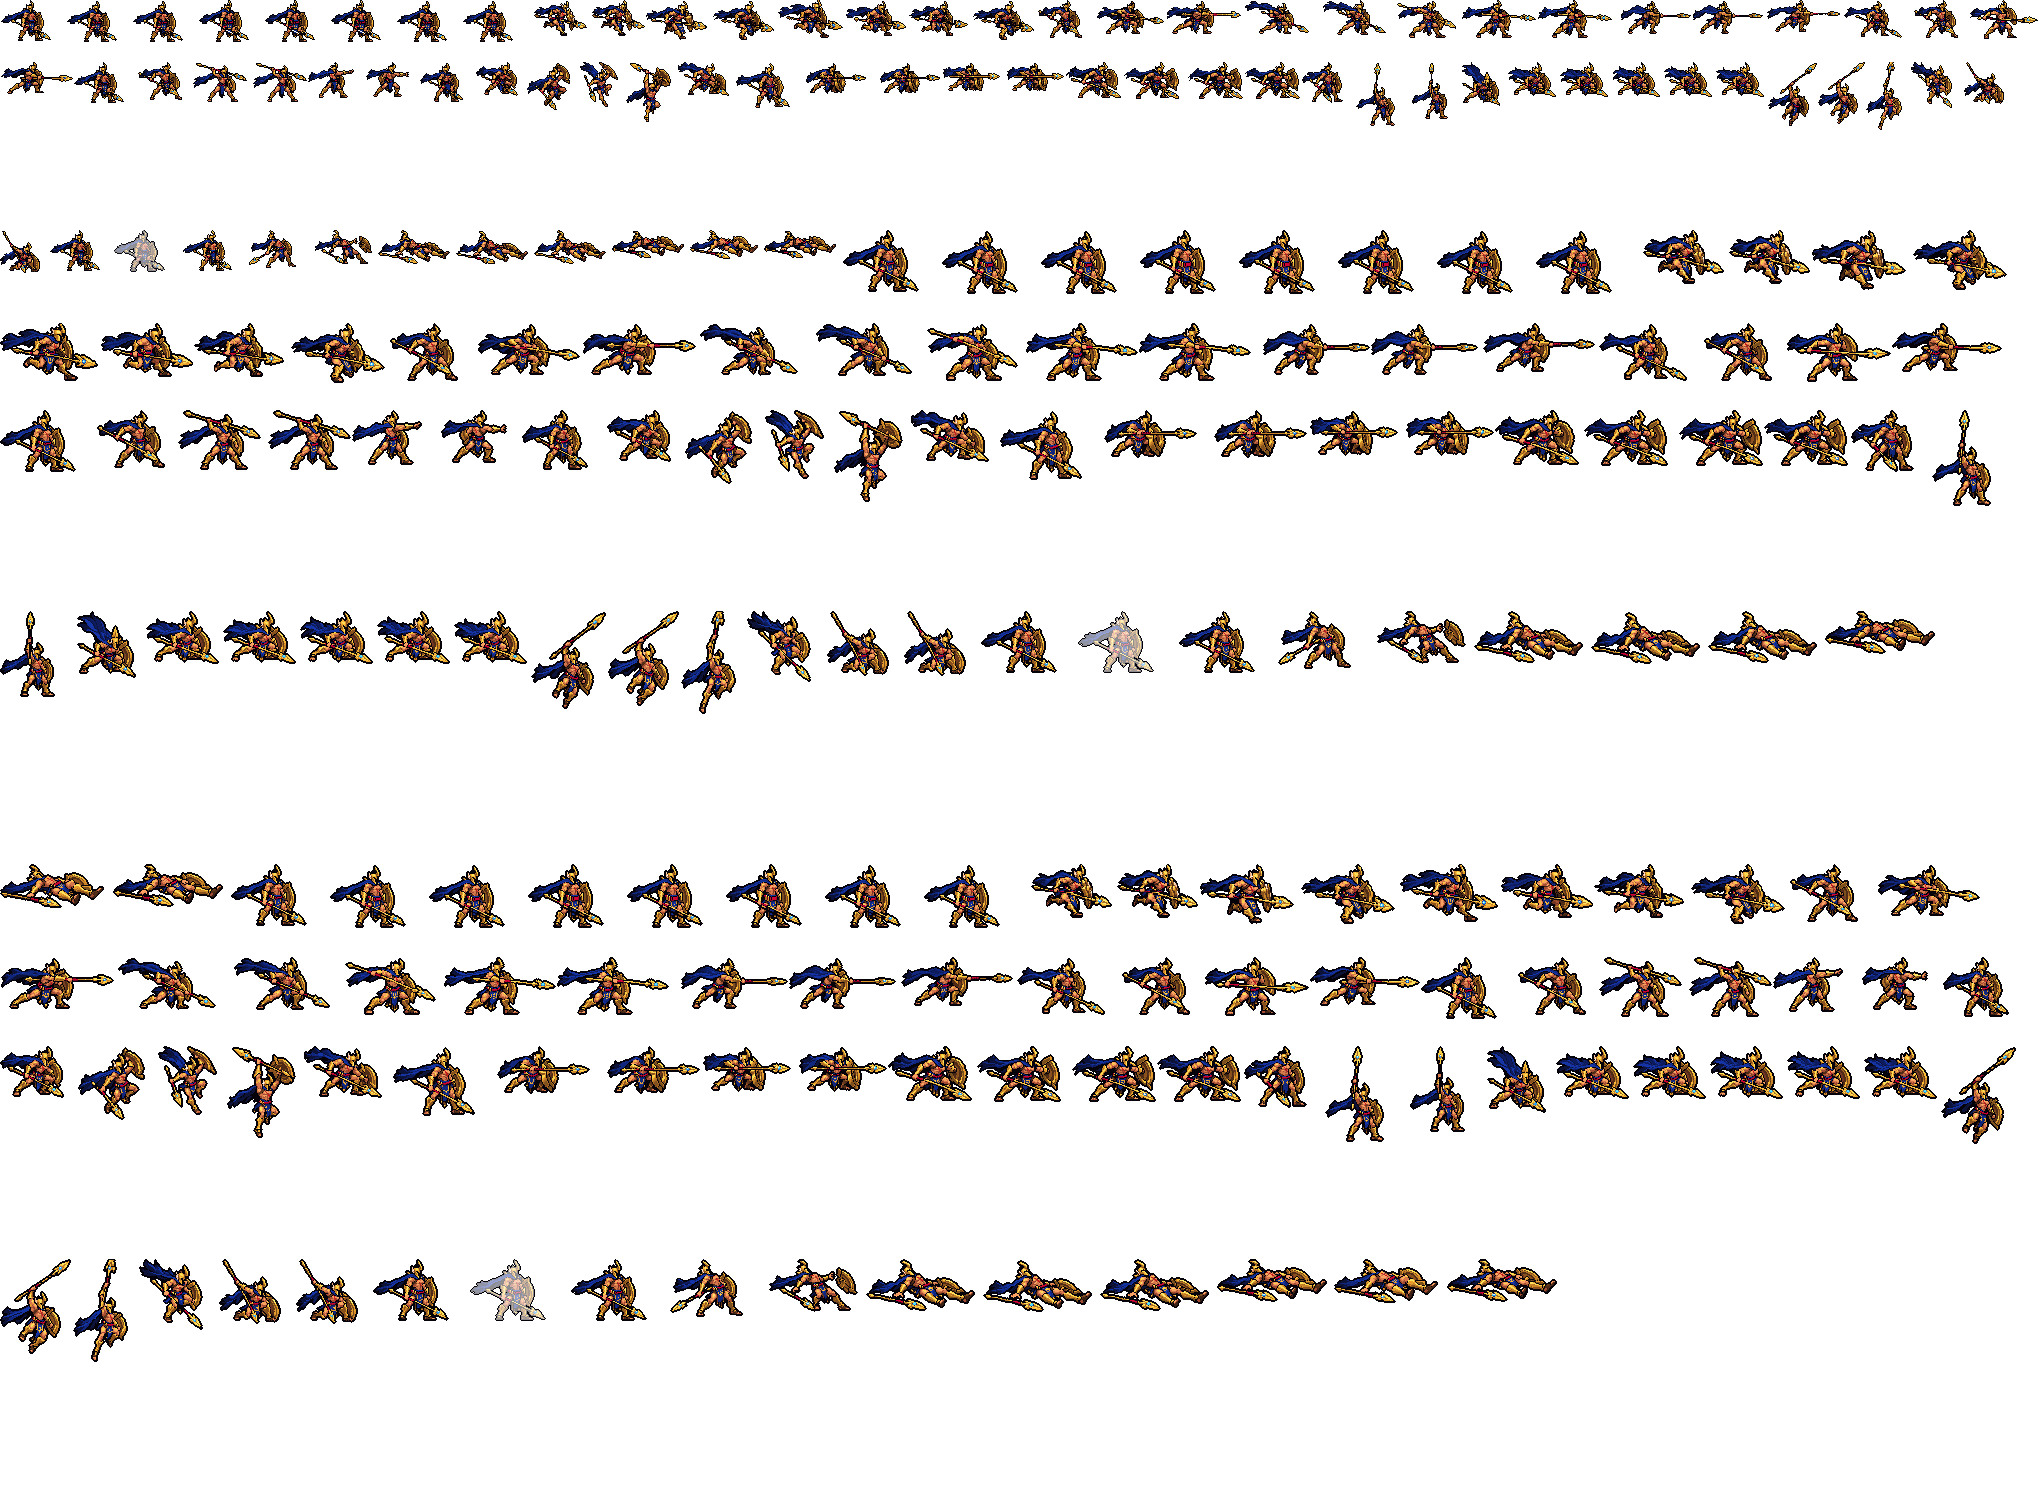
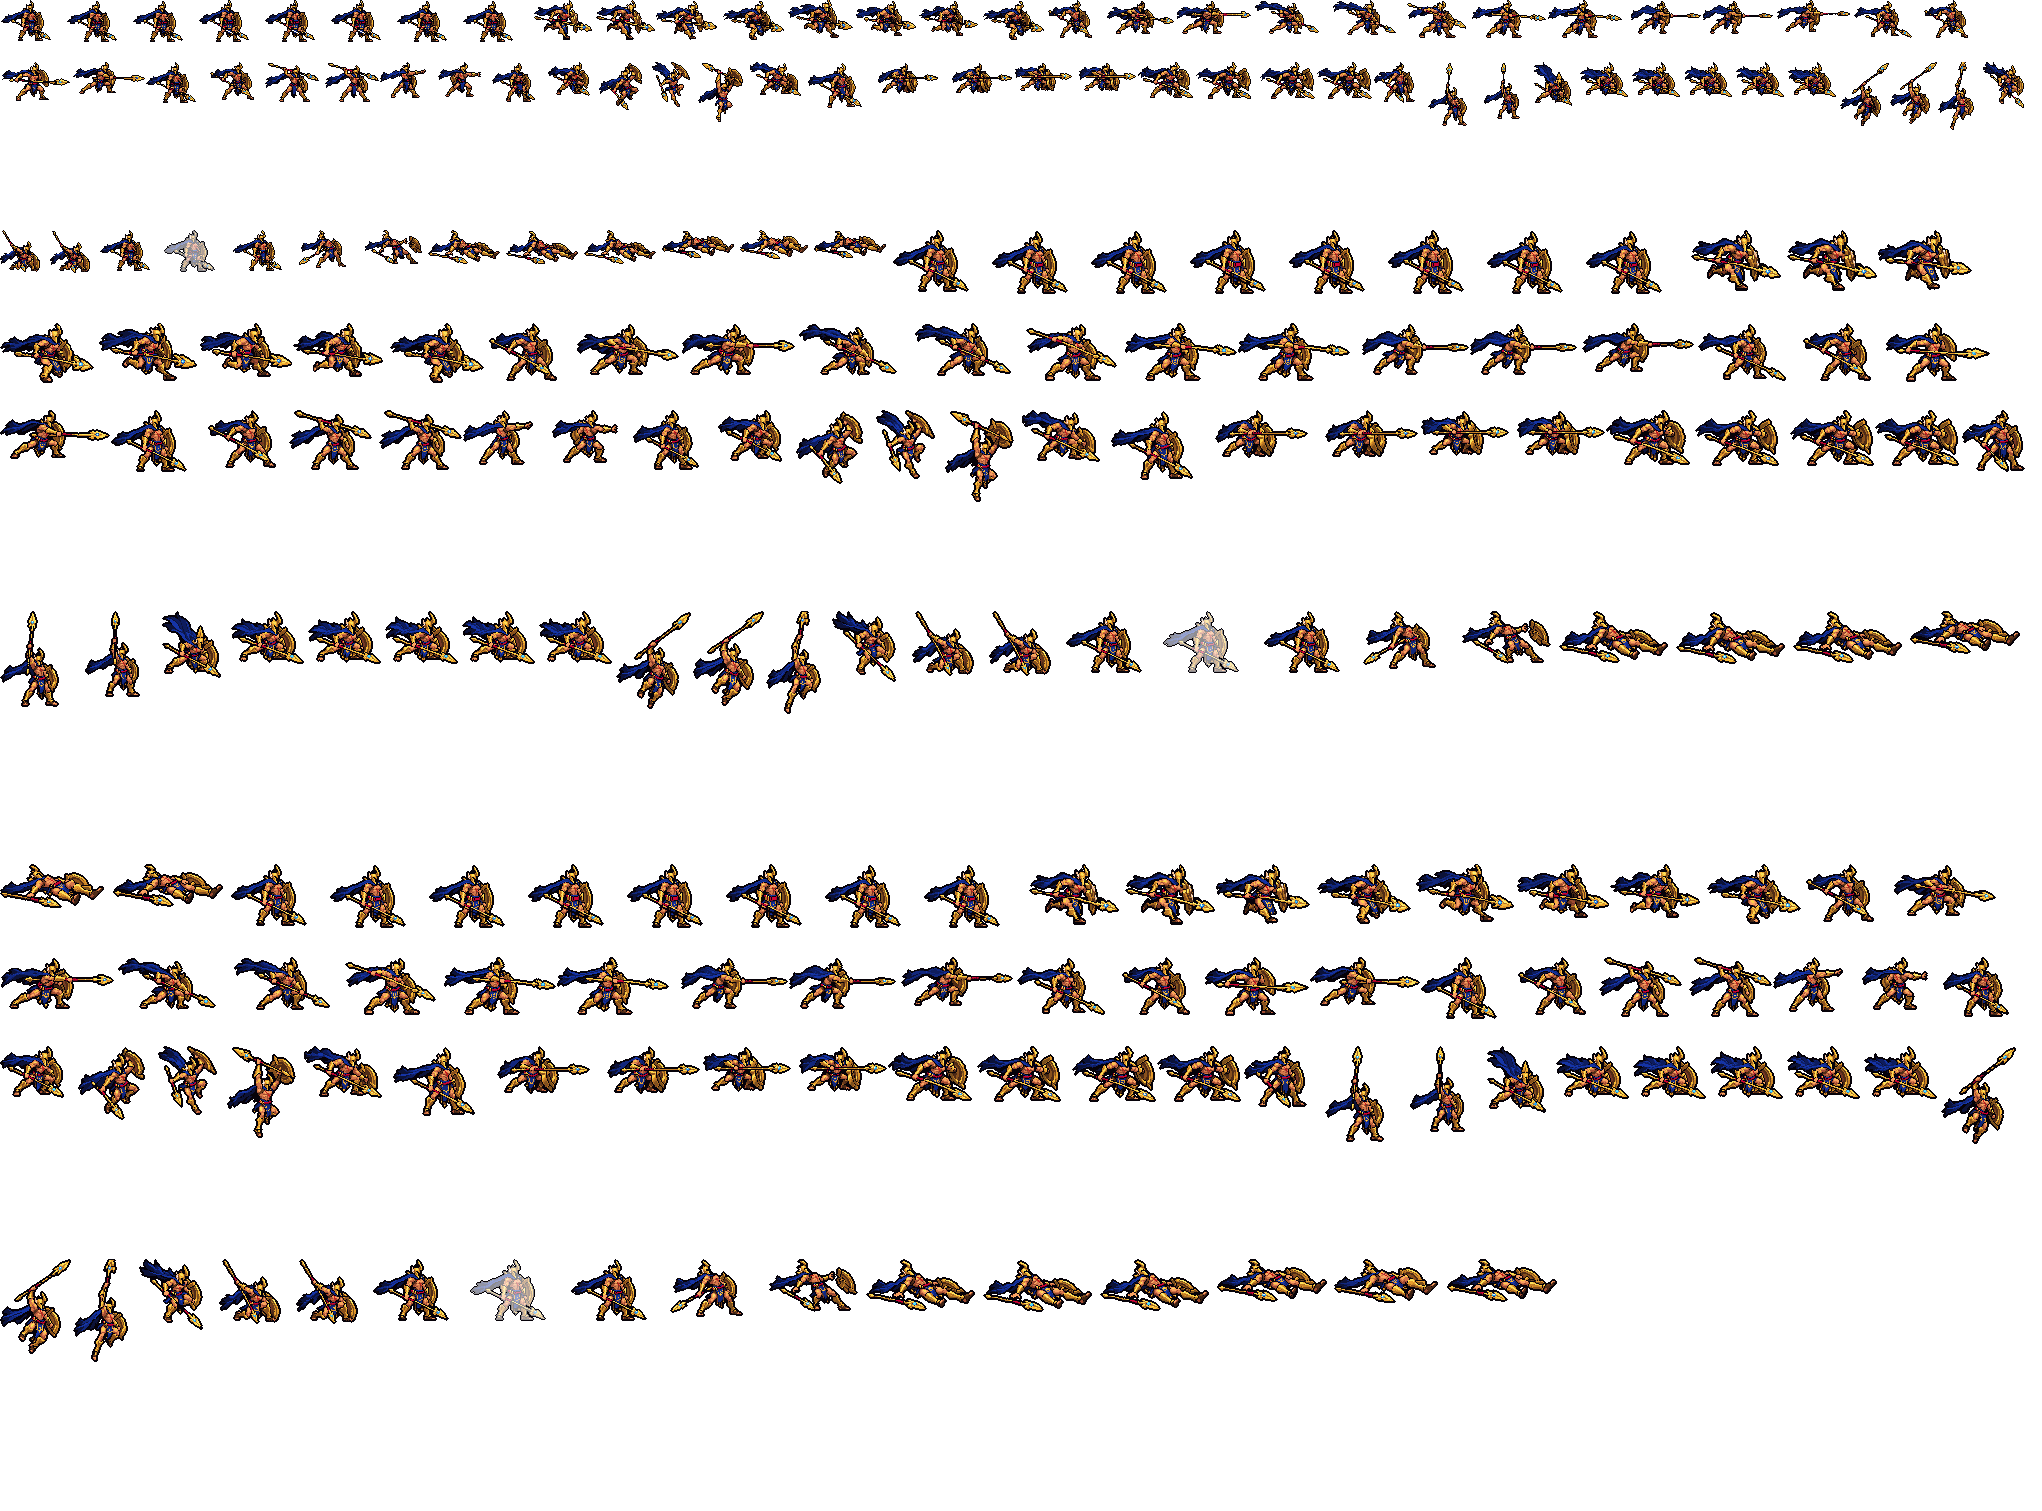
潘森：跑步第 0、1 帧重新读成和其他帧一样大（用户：「模型不要变大变小」「还有模型会变大变小」）。这两帧用的是 Codex 第 1 张跑步画，它被画小了约 11%（头盔、盾、矛、整个人都小一号：高清 2037 格、54x81、头盔 8 格宽，其他帧 2207-2635 格、54-60x90-98、9-11 格宽），每跑一圈到这两帧人就缩一下。现在从 Codex 自己的原图重新读第 1 张：第二步整帧原稿（上身）和腿部重画原稿（腿）按 8.9 像素一格读（原来 10 像素），读法和 Codex 一样（每格投票、贴定稿 39 色，不缩放像素画；同样的读法在 10 像素时复原仓库里的 1 倍图 9

diff --git a/tools/art/rig_pantheon.py b/tools/art/rig_pantheon.py
@@ -109,6 +109,13 @@ TABLE = {
 # each so the cycle stays League's 933 ms
 RUN_ORDER = [(1, 2), (1, 0), (2, -2), (3, 0), (5, 0), (6, 0), (4, -2), (3, 0)]
 RUN_MS = 117
+# 2026-11-16: run picture 1 (the run's frames 0-1) came back from Codex about 11 % smaller than pictures 2-6 - its
+# helmet, shield, spear and whole figure (2082 squares against 2304-2813), so he shrank every cycle (the user, on the
+# run's size before: 「还有模型会变大变小」). It is re-read from Codex's own pictures (the step-2 strip's image_gen original
+# for the upper body, the leg redo's for the legs, composed with the leg redo's protected mask as its compose script
+# did) at 8.9 px of the original a square instead of 10 - Codex's reading, the same block vote, nothing resampled:
+# pantheon_run_1_refit_1x.png (2588 squares, 68 x 102 against 59-67 x 101-111)
+RUN_REFIT = {"1": "pantheon_run_1_refit_1x.png"}
 # Codex drew the run redo bigger than the design: its helmet 11 squares wide and 17 tall against the idle's 9 and 15 -
 # the user: 「还有模型会变大变小」 (idle <-> run). The run is brought to the idle's size by taking whole rows and columns
 # out (tools/art/shrink_frames.py, league_senna's way: nothing resampled, the soles on their row).
@@ -160,11 +167,15 @@ def shift(a, dx, dy):
     return out
 
 
-def frame(src):
+def frame(src, refit=True):
     if src == "design":
         return design_canvas()[0]
     tag, k = src.rsplit("_", 1)
     if tag == "run" and os.path.isdir(lp(RUN)):
+        # run picture 1 re-read at the other pictures' size (RUN_REFIT): Codex drew it about 11 % smaller, so the run's
+        # frames 0-1 shrank every cycle (the user: 「模型不要变大变小」)
+        if refit and k in RUN_REFIT and os.path.isfile(lp(os.path.join(RUN, RUN_REFIT[k]))):
+            return load(os.path.join(RUN, RUN_REFIT[k]))
         return load(os.path.join(RUN, f"pantheon_run_{k}_1x.png"))
     return load(os.path.join(STRIPS, f"pantheon_{src}_1x.png"))
 
@@ -298,11 +309,14 @@ def on_canvas(a, like):
     return can
 
 
-def shrunk(frames, idle, scale):
-    """frames at `scale` of their size, whole rows and columns out (the idle's body range counts them)."""
+def shrunk(frames, idle, scale, plan_frames=None):
+    """frames at `scale` of their size, whole rows and columns out (the idle's body range counts them); `plan_frames`:
+    the frames the lines are chosen on, when they are not these (the run: chosen on Codex's own pictures, so a
+    re-read picture 1 takes the same lines out and every other frame stays as it was)."""
     import shrink_frames as SF
     cf = [(centred(a), ms) for a, ms in frames]
-    plan = SF.plan_tag(cf, SF.body_of([(centred(idle[0][0]), 0)]), scale)
+    pf = cf if plan_frames is None else [(centred(a), ms) for a, ms in plan_frames]
+    plan = SF.plan_tag(pf, SF.body_of([(centred(idle[0][0]), 0)]), scale)
     return [(on_canvas(a, frames[0][0]), ms) for a, ms in SF.apply_tag(cf, plan)]
 
 
@@ -351,7 +365,7 @@ def cape_waved(a, src, step, steps):
 def actions():
     out = {"idle": idle_frames(), "hit": hit_frames()}
     out["run"] = shrunk([(tidy(shift(frame(f"run_{k}"), dx, 0)), RUN_MS) for k, dx in RUN_ORDER], out["idle"],
-                        RUN_SCALE)
+                        RUN_SCALE, [(tidy(shift(frame(f"run_{k}", False), dx, 0)), RUN_MS) for k, dx in RUN_ORDER])
     for tag, rows in TABLE.items():
         out[tag] = []
         for src, dx, dy, ms, *wave in rows:
